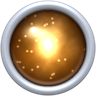
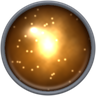
Quieter energy bezels; corners and kind tab in a deeper shade of the card's own colour
The energy gems' bezel is a fine, dim silver line. The attack/stability corner sections and the kind
tab are a deeper shade of the card's face (by rarity) rather than the Heroes' dark stock, the values
bold in their colours on it and the card's own traces running on through.

Claude-Session: https://claude.ai/code/session_01AGgLXhEWFDWnAiYRCGkagM

diff --git a/src/styles.css b/src/styles.css
@@ -4889,11 +4889,10 @@ button.cmp-turn { display: flex; align-items: baseline; gap: 6px; padding: 5px 1
   background: var(--art) center / cover no-repeat;
   filter: blur(6px) saturate(1.7);
   opacity: 0.9;
-  /* (Not in the dark corner sections, which carry the circuit in light lines of their own.) */
-  -webkit-mask: radial-gradient(circle at 0 100%, transparent var(--cut-l), #000 calc(var(--cut-l) + 0.5px)), radial-gradient(circle at 100% 100%, transparent var(--cut-r), #000 calc(var(--cut-r) + 0.5px)), linear-gradient(180deg, transparent 2%, #000 9%), var(--fade), var(--trace) 0 0 / var(--tile) repeat, var(--trace) 0 0 / var(--tile) repeat;
-  -webkit-mask-composite: source-in, source-in, source-in, source-in, source-over;
-  mask: radial-gradient(circle at 0 100%, transparent var(--cut-l), #000 calc(var(--cut-l) + 0.5px)), radial-gradient(circle at 100% 100%, transparent var(--cut-r), #000 calc(var(--cut-r) + 0.5px)), linear-gradient(180deg, transparent 2%, #000 9%), var(--fade), var(--trace) 0 0 / var(--tile) repeat, var(--trace) 0 0 / var(--tile) repeat;
-  mask-composite: intersect, intersect, intersect, intersect, add;
+  -webkit-mask: linear-gradient(180deg, transparent 2%, #000 9%), var(--fade), var(--trace) 0 0 / var(--tile) repeat, var(--trace) 0 0 / var(--tile) repeat;
+  -webkit-mask-composite: source-in, source-in, source-over;
+  mask: linear-gradient(180deg, transparent 2%, #000 9%), var(--fade), var(--trace) 0 0 / var(--tile) repeat, var(--trace) 0 0 / var(--tile) repeat;
+  mask-composite: intersect, intersect, add;
 }
 .card.kind-command .card-stock {
   inset: auto 0 0; height: 58%;
@@ -5134,3 +5133,14 @@ button.cmp-turn { display: flex; align-items: baseline; gap: 6px; padding: 5px 1
 }
 .cost-dots i.over { background-image: var(--gem-energyAmber); box-shadow: 0 0 calc(var(--cw, 100px) * 0.03) rgba(250, 180, 60, 0.5), 0 1px 2px rgba(10, 14, 20, 0.55); }
 .hand .card.card-pricey .cost-dots i { background-image: var(--gem-energyGrey); box-shadow: 0 1px 2px rgba(10, 14, 20, 0.5); }
+/* The corner sections and the kind tab in a deeper shade of the card's own colour (its face, by rarity), not the
+   Heroes' dark stock: the values in their colours, bold, stand out on it; the card's own traces run on through. */
+.card { --sect: color-mix(in srgb, var(--face) 84%, #56627c); }
+.card.kind-command { --sect: color-mix(in srgb, var(--face) 70%, #262b36); }
+.card:not(.kind-command) > .card-corners::after { filter: none; opacity: 1; }
+.card:not(.card-table):not(.kind-command) .card-stats-base b { font-weight: 800; }
+.card:not(.card-table):not(.kind-command) .card-stats-base .stat-atk { color: #c13b20; }
+.card:not(.card-table):not(.kind-command) .card-stats-base .stat-stab { color: #9c6a10; }
+.card:not(.card-table):not(.kind-command) .card-stats-base .stat-atk.stat-atk-dim { color: #7d8594; }
+.card:not(.card-table):not(.kind-command) .card-stats-base .stat-stab.stat-low { color: #d23a1c; }
+.card:not(.kind-command) .card-type { color: color-mix(in srgb, var(--kc) 80%, #1a1f2a); font-weight: 700; }

diff --git a/scripts/render_energy.py b/scripts/render_energy.py
@@ -2,7 +2,7 @@
 # Usage: pip install numpy scipy pillow && python3 scripts/render_energy.py
 """Render the energy cost gems (src/ui/gems/energy-*.png), in the rarity gems' manner (render_gems.py).
 
-Each is a small polished cabochon in a bevelled silver bezel: a stone of the energy's colour with a glowing core deep
+Each is a small polished cabochon in a fine, quiet silver bezel: a stone of the energy's colour with a glowing core deep
 inside it (wisps of light round the core, faint motes in the stone), and the glass's window reflection and glint
 over the top. Green is energy, amber the cost past a day's most energy, grey a cost that can't be paid now.
 """
@@ -20,7 +20,7 @@ c = (M - 1) / 2
 dx, dy = (x - c) / (M / 2), (y - c) / (M / 2)
 r = np.hypot(dx, dy)
 th = np.arctan2(dy, dx)
-SOCK = 0.8          # the stone's radius; the bezel runs from here to the edge
+SOCK = 0.9          # the stone's radius; the bezel runs from here to the edge
 
 
 def smoothstep(e0, e1, v):
@@ -51,9 +51,9 @@ gy, gx = np.gradient(prof * 0.25)
 nb = np.dstack([-gx * SS * 10, -gy * SS * 10, np.ones_like(r)]); nb /= np.linalg.norm(nb, axis=2, keepdims=True)
 L = np.array([0.0, -0.7, 0.7]); L /= np.linalg.norm(L)
 lam = np.clip((nb * L).sum(2), 0, 1)
-metal = 0.5 + 0.5 * lam + 0.35 * np.clip((nb * (L + [0, 0, 1]) / np.linalg.norm(L + [0, 0, 1])).sum(2), 0, 1) ** 30
+metal = 0.42 + 0.22 * lam + 0.12 * np.clip((nb * (L + [0, 0, 1]) / np.linalg.norm(L + [0, 0, 1])).sum(2), 0, 1) ** 30
 metal *= 0.6 + 0.4 * smoothstep(0, 0.2, u) * smoothstep(1, 0.8, u)
-metal_rgb = metal[..., None] * np.array([0.86, 0.89, 0.95])
+metal_rgb = metal[..., None] * np.array([0.78, 0.81, 0.87])
 
 z = np.sqrt(np.clip(1 - (r / SOCK) ** 2, 0, 1))      # the stone's dome
 wisp = fbm(5, 3, 7)
